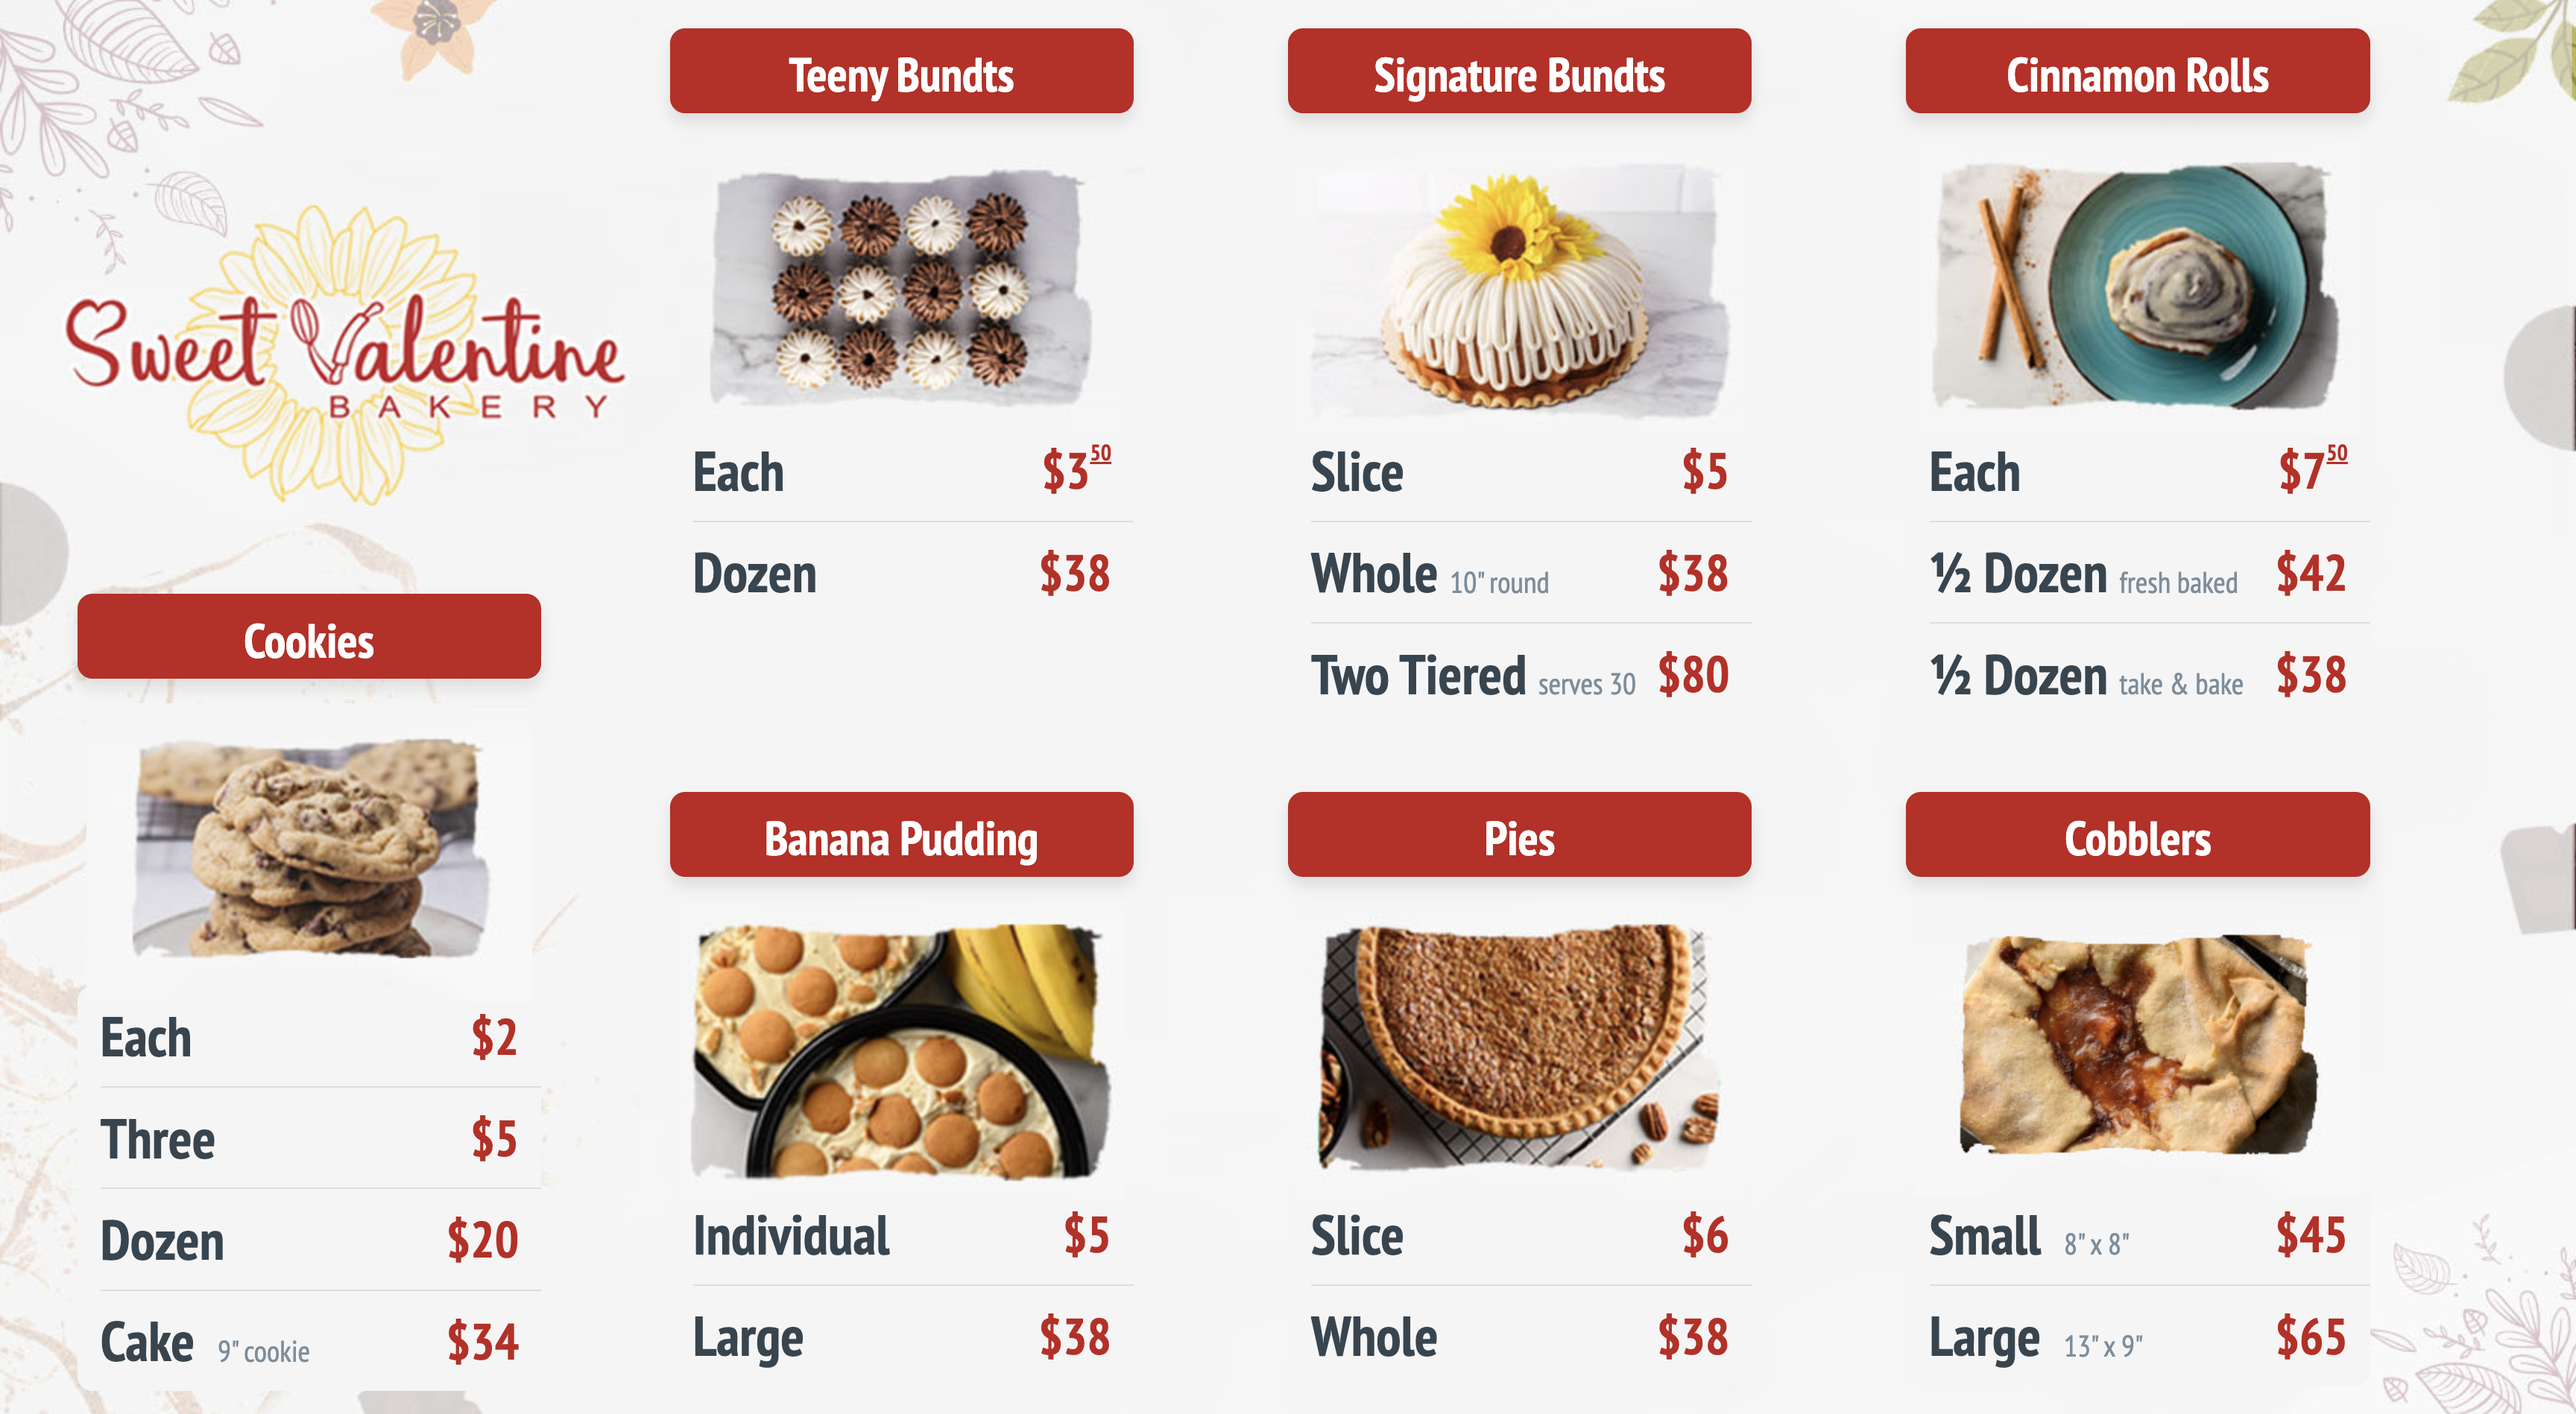
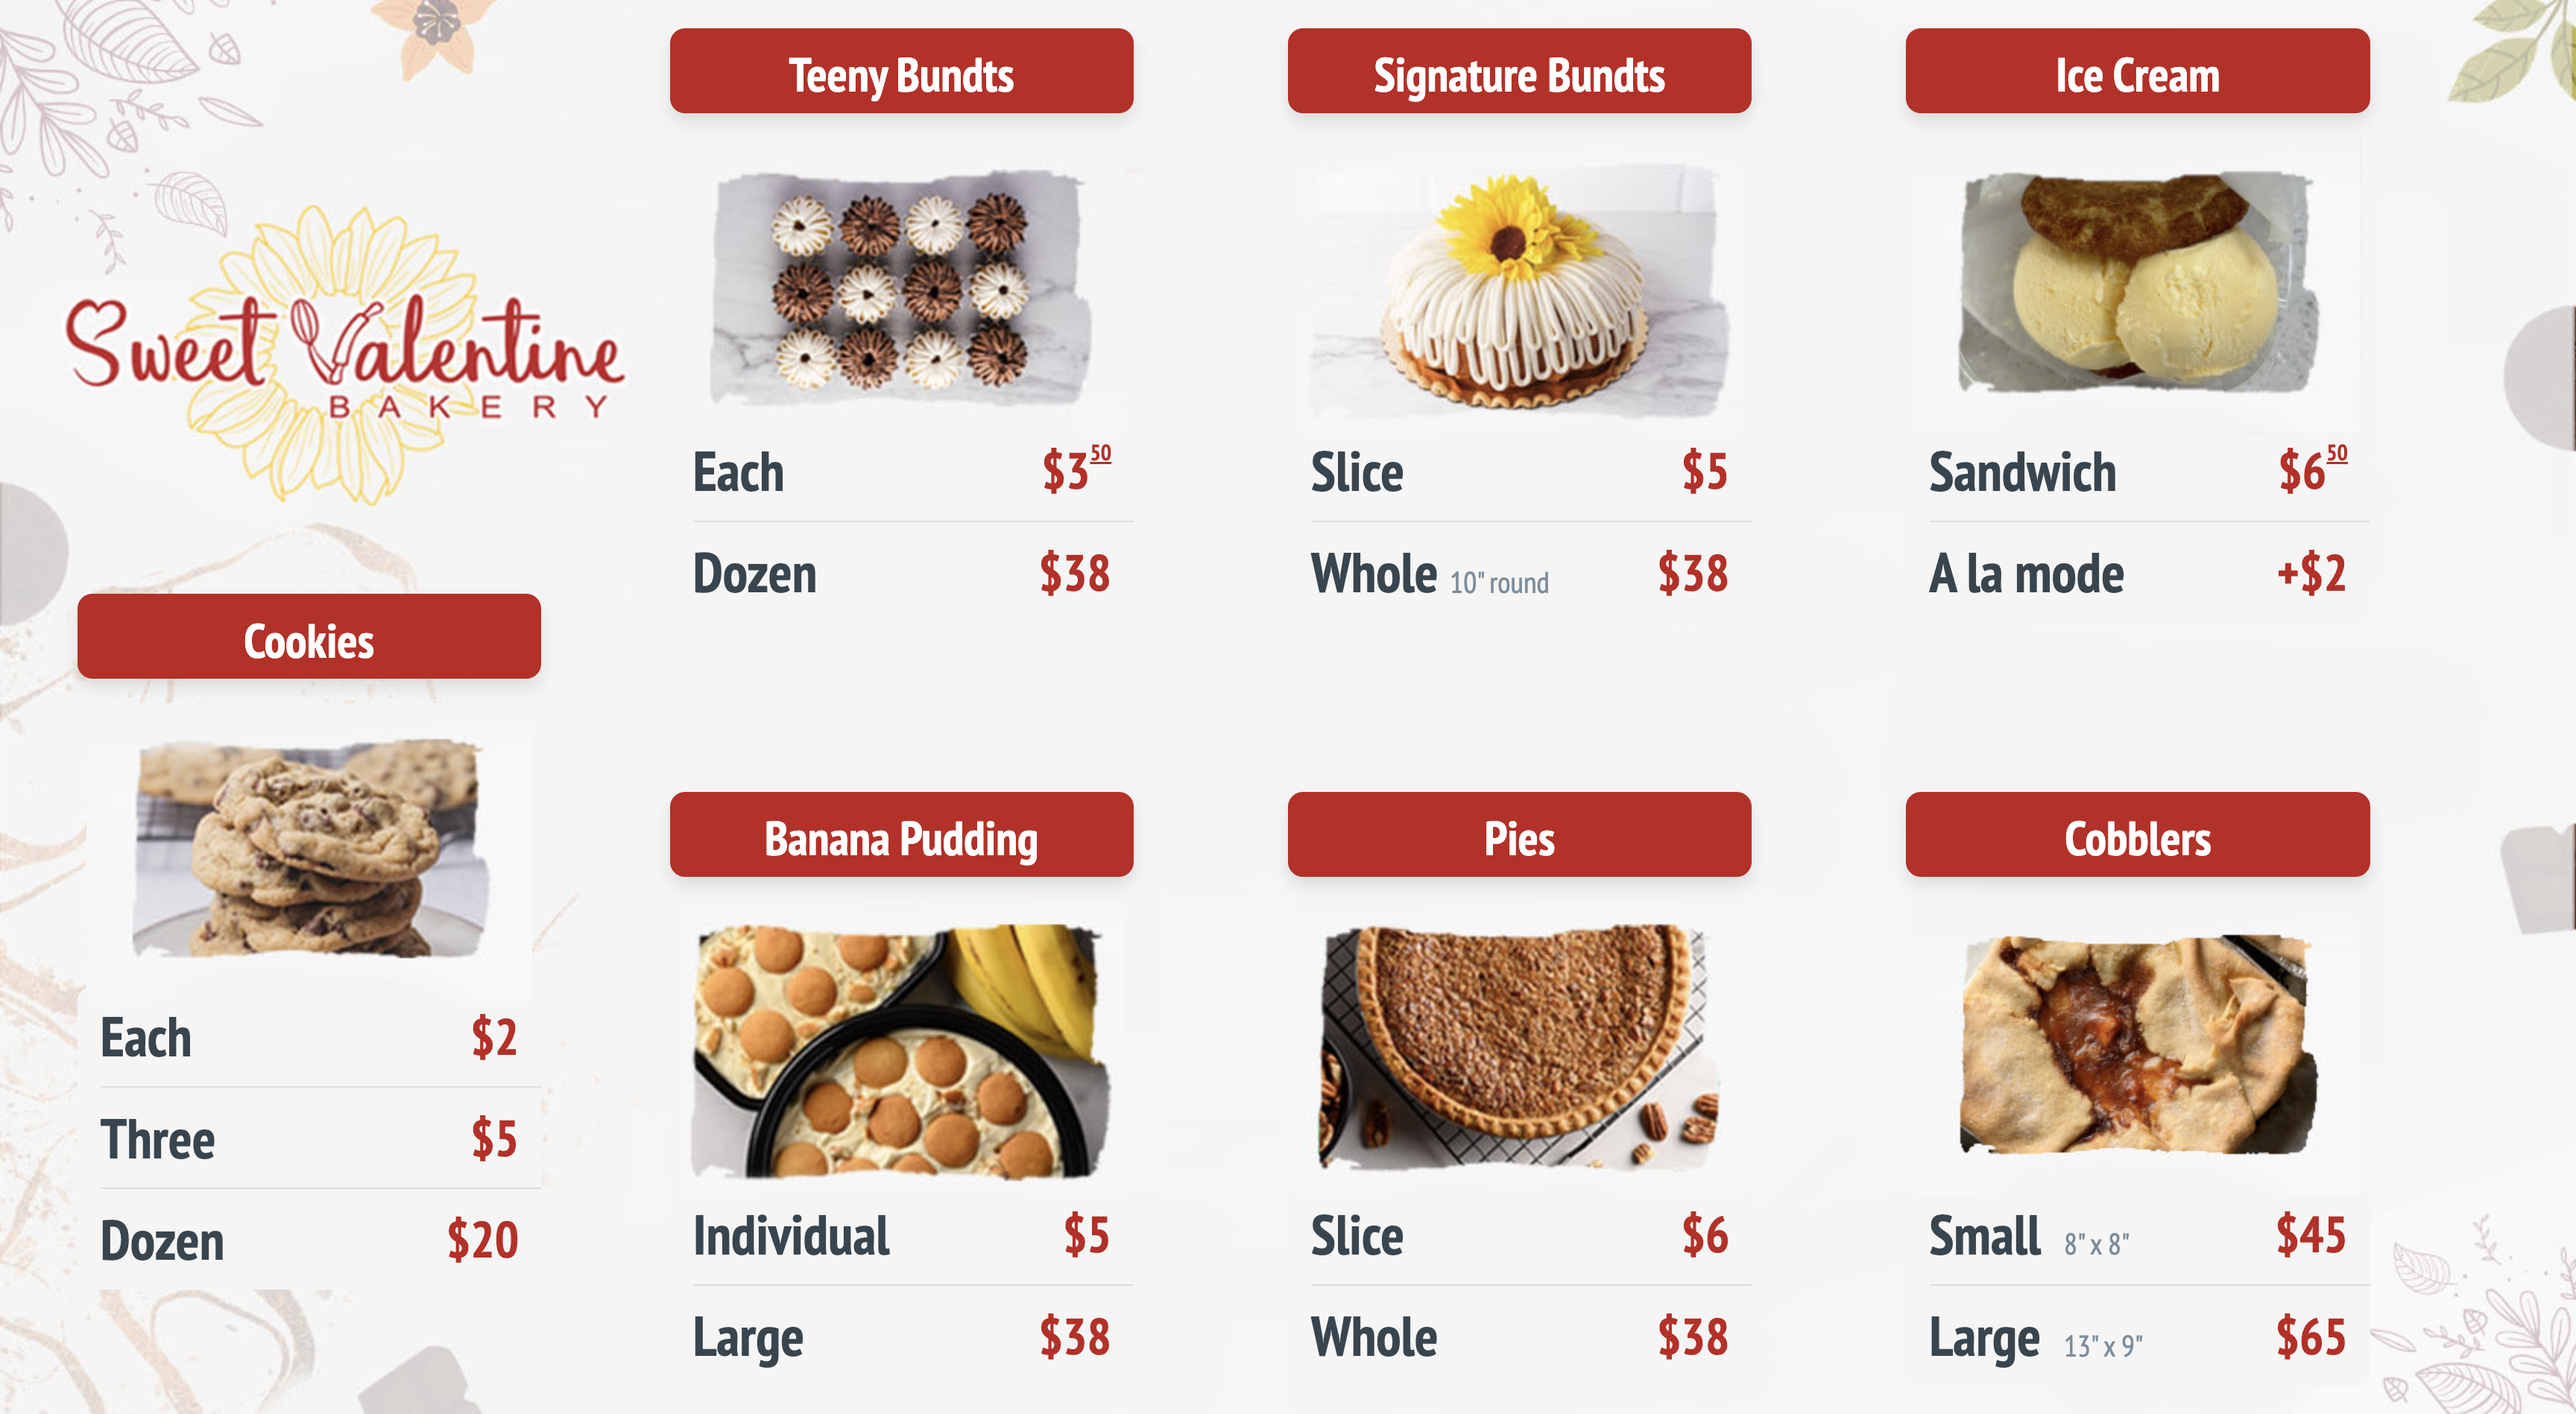
latest menu with gift card promo

diff --git a/html/css/style.css b/html/css/style.css
@@ -77,6 +77,12 @@ body {
     margin-right: 5%;
 }
 
+.menu-item-cents {
+    vertical-align: text-top;
+    font-size: 15px;
+    text-decoration: underline;
+}
+
 .change {
     vertical-align: text-top;
     font-size: 15px;
@@ -93,8 +99,12 @@ body {
     top: 2%;
 }
 
+.vmiddle {
+    top: 22%;
+}
+
 .bottom {
-    top: 56%;
+    top: 50%;
 }
 
 .bottom.far-left {

diff --git a/output-menus.py b/output-menus.py
@@ -5,7 +5,7 @@ from webdriver_manager.chrome import ChromeDriverManager
 import time
 import os 
 
-MENUS = ['menu', 'thanksgiving']
+MENUS = ['menu-left', 'menu-right']
 DIR_PATH = os.path.dirname(os.path.realpath(__file__))
 
 def take_screenshot(html_file_path, output_file_path, resolution=(1920, 1080)):
